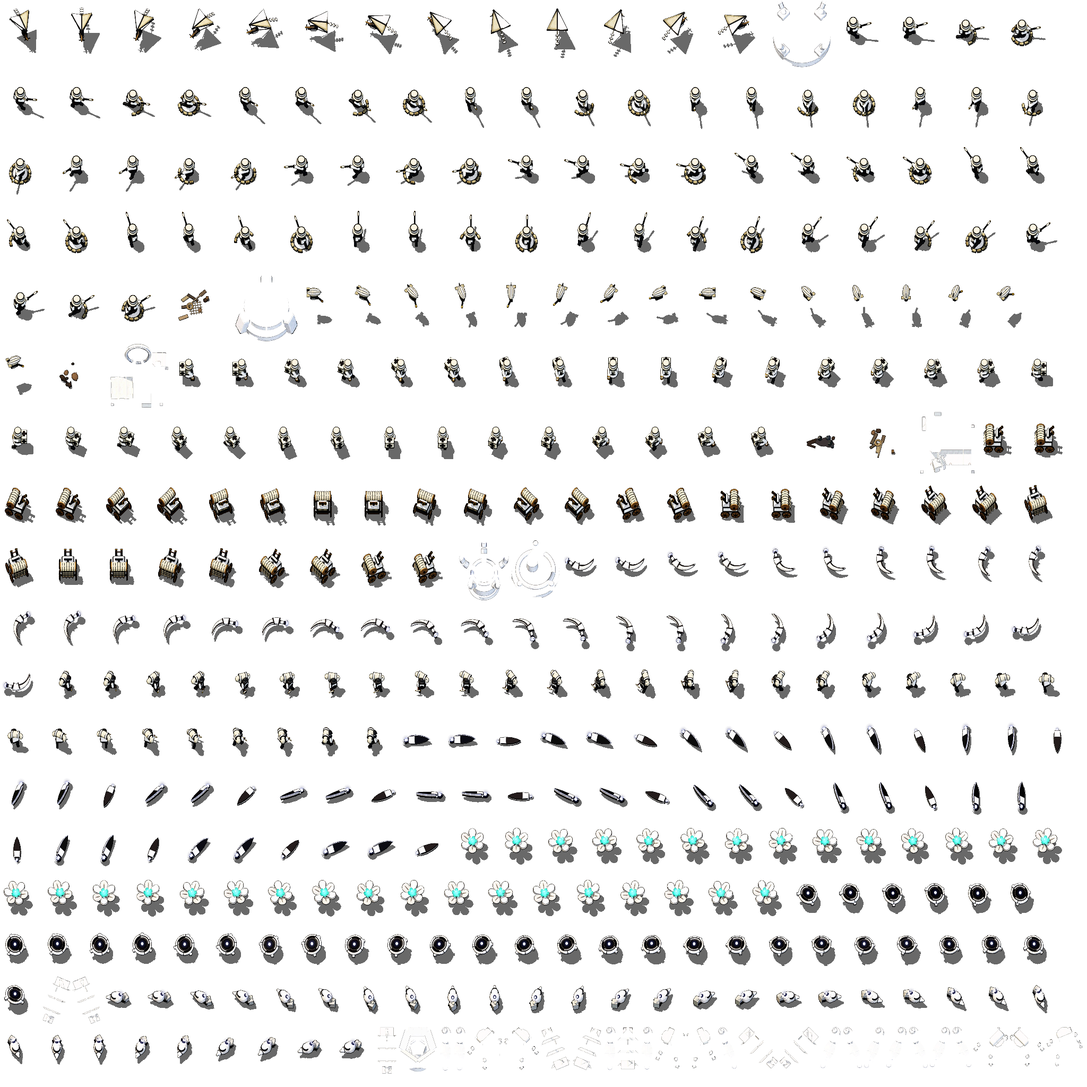
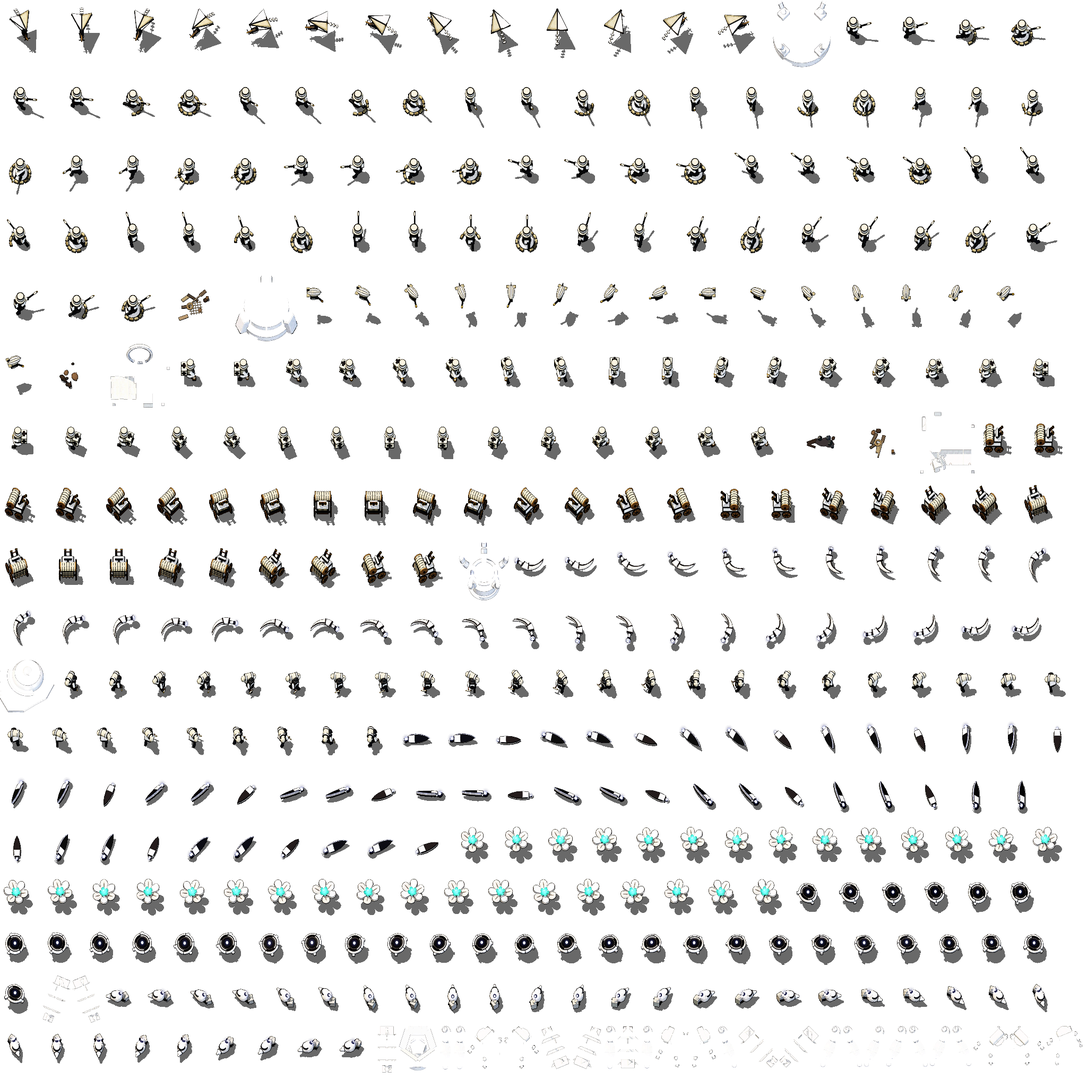
Shaft round 2: dry spoil and a black mouth with a lit near edge, a plainer Excavator, and the Siphon redrawn as a pearl whorl over the shaft (Opus, during the Fable limit)

diff --git a/tools/render3d/vael-buildings.js b/tools/render3d/vael-buildings.js
@@ -3,7 +3,7 @@
 // the Cradle (kiln), the Glasshouse (loom), the Anemone (ward), the Gyre (zenith) and the Darkwater (eclipse); the
 // Tidewell (conflux) stays in vael2.js and is the reference. Same conventions: game units (1 tile = 32), y up, +z
 // south (towards the camera); a building's anchor is its footprint's centre. Each building owns a roof from above:
-// a five-petal flower open to the sky, a bent straw over a basin, a half-open shell, a ribbed dome, a star of
+// a five-petal flower open to the sky, a conch lying over a shaft's mouth, a half-open shell, a ribbed dome, a star of
 // tentacles with lit tips, a widening spiral ribbon, a dark pool in a crown of arms; the Tidewell is a ring with
 // pylons. No ring of alternating glaze bands anywhere (the Tidewell's read as a lifebuoy): team glaze is one band,
 // a sleeve, a cap or a patch, each between ink seams.
@@ -13,6 +13,7 @@ import * as THREE from 'three';
 import { grp, add, rbox, cyl, sph, plate, limb, boxUV } from './models.js';
 import { torus, lathe } from './vael.js';
 import { deeplight } from './vael2.js';
+import { shaftPit, squareHole } from './ground.js';
 
 const cache = new Map();
 const memo = (key, make) => { if (!cache.has(key)) cache.set(key, make()); return cache.get(key); };
@@ -23,7 +24,6 @@ function fam(M) {
   const A = {
     darkGlass: new THREE.MeshPhysicalMaterial({ color: 0x16142c, metalness: 0.5, roughness: 0.08, clearcoat: 1, clearcoatRoughness: 0.05 }), // the Glasshouse's panes
     petalGlass: new THREE.MeshPhysicalMaterial({ color: 0x1c1840, emissive: 0x0e0c22, emissiveIntensity: 0.5, metalness: 0.35, roughness: 0.18, clearcoat: 1, clearcoatRoughness: 0.08, sheen: 0.4, sheenColor: 0x8c80d8 }), // the Sunpetal's faces: deep violet glass with a light sweep, never flat black
-    brine: new THREE.MeshStandardMaterial({ color: 0x26403e, emissive: 0x0a1a18, emissiveIntensity: 0.5, metalness: 0.25, roughness: 0.45 }), // the Siphon's seep: murky grey-teal
     violetWater: new THREE.MeshStandardMaterial({ color: 0x3a2e74, emissive: 0x241a58, emissiveIntensity: 0.55, metalness: 0.35, roughness: 0.3 }), // the Cradle's basin: deep violet, never black
     bud: new THREE.MeshPhysicalMaterial({ color: 0x6a5aa8, emissive: 0x2c2060, emissiveIntensity: 0.5, metalness: 0.1, roughness: 0.35, clearcoat: 0.8, sheen: 0.8, sheenColor: 0xe8e0ff }), // the Cradle's bud: violet under a pearl sheen
     mouth: new THREE.MeshStandardMaterial({ color: 0x1a1830, emissive: 0x201c48, emissiveIntensity: 0.5, metalness: 0.4, roughness: 0.3 }), // the Anemone's mouth: dark violet, lit from within
@@ -147,35 +147,53 @@ export function sunpetal(M) {
   return g;
 }
 
-/** Siphon (economy, on a brine seep, 2x2): a thick pearl straw bent over a small round seep of murky grey-teal
- *  brine, no rings on it, in a wide team collar: the straw rises from the seep, ribbed where it bends, and leans
- *  east to a pearl mouth open to the sky; a team sleeve on its lower half and a team band round the basin, each
- *  between ink seams; the one deeplight where the straw drinks. From above: a small murky pool in a broad team
- *  collar with a thick pale tube bent across it; nothing else has a tube. */
+/** A three-lobed plate (`tri` outline) with a square hole through it (the Siphon's plinth over the shaft's mouth). */
+const holedTri = (r, k, depth, bevel, hole) => memo(`htri${r},${k},${depth},${bevel},${hole}`, () => {
+  const sh = new THREE.Shape(tri(r, k).map(([x, z]) => new THREE.Vector2(x, -z))); sh.holes.push(squareHole(...hole));
+  const geo = new THREE.ExtrudeGeometry(sh, { depth: Math.max(0.1, depth - bevel * 2), bevelEnabled: true, bevelThickness: bevel, bevelSize: bevel, bevelSegments: 3, curveSegments: 12 });
+  geo.rotateX(-Math.PI / 2); geo.translate(0, bevel, 0);
+  const uv = geo.attributes.uv; for (let i = 0; i < uv.count; i++) uv.setXY(i, uv.getX(i) / 16, uv.getY(i) / 16); return geo;
+});
+/** A band round a three-lobed outline: `w` thick inward from radius r, `h` tall, its foot at y 0. */
+const triBand = (r, k, w, h) => memo(`tband${r},${k},${w},${h}`, () => {
+  const sh = new THREE.Shape(tri(r, k).map(([x, z]) => new THREE.Vector2(x, -z))); sh.holes.push(new THREE.Path(tri(r - w, k).map(([x, z]) => new THREE.Vector2(x, -z)).reverse()));
+  const geo = new THREE.ExtrudeGeometry(sh, { depth: h, bevelEnabled: false, curveSegments: 12 }); geo.rotateX(-Math.PI / 2); return boxUV(geo);
+});
+/** Siphon (economy, on a mine shaft, 2x2): a great pearl whorl, a moon-shell, that has settled on the shaft and drinks
+ *  the last damp brine from the salt beds below. A low pearl dome on the family's three-lobed plinth, one dark groove
+ *  spiralling from its rim in to its apex (the shell's read from above), a team cap on the apex in an ink seam; to the
+ *  south-west its aperture, the lip lifted and flared in a thick pearl roll (a team band on its flare between ink seams)
+ *  over the shaft's square dark mouth, the ink core in the gap under it and the one deeplight where it drinks; a team
+ *  band round the plinth's foot. The mouth shows beside it, the shaft's own dark (ground.js `shaftPit`); no liquid, no green. Nothing
+ *  stands up or points out (round 1 of the shaft: the upright straw read as a gun turret to all four testers). */
 export function siphon(M) {
-  const g = grp(), A = fam(M);
-  plinth(g, M, 27, 0.25);
-  add(g, cyl(19, 22, 7, 40), M.ink, 0, 4.5, 0);                                                // the basin
-  skirt(g, M, 22.4, 4.4, 4, 40);                                                               // the team band round it
-  add(g, cyl(15, 15, 0.6, 40), A.brine, 0, 8, 0);                                              // the seep: murky brine, still
-  hoop(g, M, 17, 4, 8.4);                                                                      // the wide team collar round it
-  deeplight(g, M, 1.1, 0, 9, 5.5);                                                             // a small light where the straw drinks, south of it
-  // the straw: up from the seep, a ribbed bend, then leaning east to a pearl mouth
-  const s = grp(); s.position.set(-3, 7, 0); g.add(s);
-  add(s, cyl(4.4, 4.9, 14, 18), M.shell, 0, 7, 0);                                             // the lower straw, thick
-  add(s, cyl(5, 5.3, 7, 18), M.glaze, 0, 9, 0);                                                // its team sleeve
-  add(s, cyl(5.2, 5.5, 0.7, 18), M.inkSeam, 0, 12.9, 0); add(s, cyl(5.4, 5.7, 0.7, 18), M.inkSeam, 0, 5.1, 0);
-  for (let k = 0; k < 4; k++) add(s, torus(4.5, 0.8, Math.PI * 2, 20), M.shellDark, k * k * 0.6, 15 + k * 2.5, 0, Math.PI / 2, 0, -k * 0.17); // the ribbed bend, slight
-  const up = grp(); up.position.set(3.6, 23.4, 0); up.rotation.z = -0.7; s.add(up);             // the upper straw, leaning east
-  add(up, cyl(4.1, 4.4, 20, 18), M.shell, 0, 10, 0);
-  add(up, rbox(1.6, 18, 1, 0.3), M.shellLight, -3.7, 10, 2);                                    // a lit ridge along it
-  add(up, sph(4.8, 16, 12), M.ring, 0, 20.6, 0).scale.set(1, 0.85, 1);                         // the mouth: a plain rounded pearl head
-  add(up, sph(1.9, 10, 8), M.inkSeam, 0, 24.2, 0); const hx = s.position.x + up.position.x + Math.sin(0.7) * 25, hy = s.position.y + up.position.y + Math.cos(0.7) * 25; deeplight(g, M, 1.3, hx, hy, 0); // the one blue-violet light at the head
-  for (const a of [Math.PI / 2 + 0.75, Math.PI / 2 - 0.75, -Math.PI / 2]) {                    // three pearl stakes pin the basin, team-capped
-    const x = Math.cos(a) * 22, z = Math.sin(a) * 22;
-    add(g, sph(3.2, 12, 10), M.shellLight, x, 9, z).scale.set(1, 1.3, 1);
-    add(g, cyl(2.3, 2.3, 1.8, 12), M.glaze, x, 12.2, z); add(g, cyl(2.5, 2.5, 0.5, 12), M.inkSeam, x, 11.2, z);
-  }
+  const g = grp(), MX = -5, MZ = 9, MW = 15;                                                   // the shaft's mouth through the plinth
+  add(g, holedTri(27, 0.25, 4, 1.5, [MX, MZ, MW / 2 + 1.5]), M.shellDeep, 0, 0, 0);            // the plinth, open over the mouth, a shade darker than the family's so the pale whorl is the read
+  add(g, holedTri(24.3, 0.25, 3, 1.4, [MX, MZ, MW / 2 + 1.4]), M.shellDark, 0, 3.5, 0);
+  add(g, triBand(28.9, 0.25, 1.0, 2.0), M.glaze, 0, 1.0, 0);                                    // a team band round the plinth's foot, between ink seams
+  for (const y of [0.5, 3.0]) add(g, triBand(29.1, 0.25, 1.3, 0.5), M.inkSeam, 0, y, 0);
+  shaftPit(g, MX, 6.5, MZ, MW);                                                                // the shaft going down, dark
+  for (const [w, d, x, z] of [[MW + 3.4, 1.6, 0, MW / 2 + 0.8], [1.6, MW + 3.4, -MW / 2 - 0.8, 0], [1.6, MW + 3.4, MW / 2 + 0.8, 0]]) add(g, rbox(w, 1.3, d, 0.6), M.ring, MX + x, 6.9, MZ + z); // a pearl lip round it, the near edge lit
+  // the whorl: a low pearl moon-shell dome settled on the plinth, a spiral groove from its rim in to its apex
+  const C = [4, 6.5, -4], R = 15, H = 9.5, dome = (r) => H * Math.sqrt(Math.max(0, 1 - (r / R) ** 2));
+  add(g, new THREE.SphereGeometry(R, 40, 20, 0, Math.PI * 2, 0, Math.PI / 2), M.shell, ...C).scale.set(1, H / R, 1);
+  const TH = Math.asin(11.5 / R);                                                                // the body whorl's outer turn, team: a skirt round the dome's foot between ink seams
+  add(g, new THREE.SphereGeometry(R + 0.15, 40, 6, 0, Math.PI * 2, TH, Math.PI / 2 - TH), M.glaze, ...C).scale.set(1, H / R, 1);
+  add(g, torus(11.6, 0.5, Math.PI * 2, 48), M.inkSeam, C[0], C[1] + H * Math.cos(TH) + 0.1, C[2], Math.PI / 2, 0, 0);
+  add(g, torus(R + 0.3, 0.55, Math.PI * 2, 48), M.inkSeam, C[0], C[1] + 0.4, C[2], Math.PI / 2, 0, 0);
+  const spiral = (r0, turns, a0, dr = 0) => { const pts = []; for (let i = 0; i <= 96; i++) { const t = i / 96, a = a0 + t * turns * Math.PI * 2, r = r0 * Math.exp(-2.1 * t); pts.push(new THREE.Vector3(C[0] + Math.cos(a) * r, C[1] + dome(r) + dr, C[2] + Math.sin(a) * r)); } return new THREE.CatmullRomCurve3(pts); };
+  add(g, new THREE.TubeGeometry(spiral(10.6, 1.9, 2.4, 0.15), 160, 0.75, 6), M.shellDeep, 0, 0, 0);   // the suture: one groove spiralling in, the shell's read
+  add(g, new THREE.TubeGeometry(spiral(9.2, 1.9, 2.4, 0.35), 160, 0.6, 6), M.shellLight, 0, 0, 0);  // the whorl's lit shoulder beside it
+  { const ar = 10.6 * Math.exp(-2.1), ax = C[0] + Math.cos(2.4 + 1.9 * Math.PI * 2) * ar * 0.5, az = C[2] + Math.sin(2.4 + 1.9 * Math.PI * 2) * ar * 0.5;   // the apex: a team cap in an ink seam
+    add(g, new THREE.SphereGeometry(4.6, 20, 10, 0, Math.PI * 2, 0, Math.PI / 2), M.glaze, ax, C[1] + H - 1.1, az).scale.set(1, 0.55, 1);
+    add(g, torus(4.65, 0.45, Math.PI * 2, 32), M.inkSeam, ax, C[1] + H - 1.1, az, Math.PI / 2, 0, 0); }
+  // the aperture, south-west over the mouth: the shell's lip lifted and flared, the ink core under it, a team band on it
+  const LA = 2.36, lip = grp(); lip.position.set(C[0], C[1] + 1.2, C[2]); lip.rotation.y = -(LA - 1.1); g.add(lip);  // (the arc runs from LA - 1.1 to LA + 1.1)
+  add(lip, torus(R + 0.6, 2.2, 2.2, 40), M.ring, 0, 0, 0, Math.PI / 2, 0, 0).scale.set(1, 1, 0.8);            // the lip, a thick pearl roll
+  add(lip, torus(R + 3.1, 1.2, 2.2, 40), M.glaze, 0, 0.3, 0, Math.PI / 2, 0, 0);                            // its flare, team
+  for (const r of [R + 1.7, R + 4.5]) add(lip, torus(r, 0.42, 2.2, 40), M.inkSeam, 0, 0.5, 0, Math.PI / 2, 0, 0);
+  add(lip, new THREE.CylinderGeometry(R - 0.5, R - 0.5, 1.6, 40, 1, true, Math.PI / 2 - 2.2, 2.2), Object.assign(M.inkMatte ??= M.inkSeam.clone(), {}), 0, -0.4, 0); // the ink core in the gap beneath it
+  deeplight(g, M, 1.3, C[0] + Math.cos(LA) * (R + 6), C[1] - 0.5, C[2] + Math.sin(LA) * (R + 6));   // the one light, where it drinks, over the dark
   return g;
 }
 

diff --git a/tools/render3d/ground.js b/tools/render3d/ground.js
@@ -44,10 +44,11 @@ const SH = {
   mouth: new THREE.MeshBasicMaterial({ color: 0x000000 }),                                     // the dark going down: no sheen, no light, the darkest thing on screen
   deep: std({ color: 0x0c0b0a, roughness: 1, metalness: 0 }),                                  // the far wall, deeper
   rock: std({ color: 0x1e1b18, roughness: 1, metalness: 0, flatShading: true }),               // the rock under the seabed, in shade
-  lining: std({ color: 0x3a3028, roughness: 0.95, metalness: 0 }),                             // the shaft's timber lining at its top, in shade
+  lining: std({ color: 0x2c2620, roughness: 0.95, metalness: 0 }),                             // the shaft's timber lining at its top, in shade
   ladder: std({ color: 0x5a4c3c, roughness: 0.9, metalness: 0 }),
-  beam: std({ color: 0x6e6a62, roughness: 0.88, metalness: 0 }),                               // the collar's timbers: old, weathered grey-brown (the Harbour's own timber read orange)
-  spoil: std({ color: 0x302f2c, roughness: 0.95, metalness: 0, flatShading: true }),           // dug earth and broken rock round the mouth, a step over the seabed
+  beam: std({ color: 0x847d71, roughness: 0.88, metalness: 0 }),                               // the collar's timbers: old, weathered grey-brown (the Harbour's own timber read orange)
+  spoil: std({ color: 0x3e3b36, roughness: 1, metalness: 0 }),                                 // dry dug earth round the mouth, the ground's value or a touch over (round 1's darker blot read as a puddle of tar)
+  rim: std({ color: 0xa69c8a, roughness: 0.85, metalness: 0 }),                               // the near edge's worn lip, lit: where the mouth begins
 };
 
 /** A salt field (`shard_0..3`), readable from full to nearly mined out by its shape, not only its size:
@@ -92,6 +93,14 @@ export function saltField(stage, M = G) {
   return g;
 }
 
+/** The shaft below the ground at a mouth `w` across centred at (x, y, z): its far wall, as deep as the camera sees
+ *  through the mouth, a thin lining band, rock in shade, then black. Shared by the collar and the Siphon's mouth. */
+export function shaftPit(g, x, y, z, w) {
+  const D = w * Math.tan(55 * Math.PI / 180), zN = z - w / 2;
+  const bands = [[0, 1.6, SH.lining], [1.6, 4, SH.rock], [4, 8, SH.deep], [8, D + 2, SH.mouth]];      // the far wall, top down: a thin lining, rock in shade, darker, black
+  for (const [t, u, mat] of bands) add(g, rbox(w + 1, u - t, 1, 0.05), mat, x, y - (t + u) / 2, zN - 0.5);
+  for (const sx of [-1, 1]) add(g, rbox(1, D, 1, 0.05), SH.mouth, x + sx * (w / 2 + 0.5), y - D / 2, zN);   // (the side walls' far corners, black)
+}
 /** The mine shaft's collar and mouth, square, centred at (x, y, z) on the ground at y: the shaft itself, its far wall
  *  going down below the ground as deep as the camera sees through the mouth (1.43 times its width at 55 degrees), lined
  *  with timber at the top and falling to black, a ladder down it; round it two courses of squared timbers laid
@@ -99,18 +108,17 @@ export function saltField(stage, M = G) {
  *  is built: the camera sees nothing else of the shaft. `M`: makeMats (iron; nothing team). Shared by the free shaft
  *  (`mineShaft`) and the Excavator over it. */
 export function shaftCollar(g, M, x = 0, y = 0, z = 0, w = 20) {
-  if (!SH.beam.map) for (const m of [SH.beam, SH.ladder, SH.lining]) { m.map = M.timber.map; m.needsUpdate = true; }  // (the Harbour's timber grain)
-  const b = 5, h = 3.4, o = w / 2 + b / 2, L = w + b * 2 + 5, D = w * Math.tan(55 * Math.PI / 180), zN = z - w / 2;
-  const bands = [[0, 3.2, SH.lining], [3.2, 6.5, SH.rock], [6.5, 11, SH.deep], [11, D + 2, SH.mouth]];   // the far wall, top down: lining, rock in shade, darker, black
-  for (const [t, u, mat] of bands) add(g, rbox(w + 1, u - t, 1, 0.05), mat, x, y - (t + u) / 2, zN - 0.5);
-  for (const sx of [-1, 1]) add(g, rbox(1, D, 1, 0.05), SH.mouth, x + sx * (w / 2 + 0.5), y - D / 2, zN);   // (the side walls' far corners, black)
-  for (const sx of [-1, 1]) add(g, rbox(1, 20, 1, 0.3), SH.ladder, x + sx * 2.6, y - 4, zN + 1.1);         // a ladder down the far wall
-  for (let k = 0; k < 6; k++) add(g, rbox(5.2, 0.7, 0.7, 0.2), SH.ladder, x, y + 4.6 - k * 3, zN + 1.2);
+  if (!SH.beam.map) for (const m of [SH.beam, SH.ladder, SH.lining, SH.rim]) { m.map = M.timber.map; m.needsUpdate = true; }  // (the Harbour's timber grain)
+  const b = 5, h = 3.4, o = w / 2 + b / 2, L = w + b * 2 + 5, zN = z - w / 2;
+  shaftPit(g, x, y, z, w);
+  for (const sx of [-1, 1]) add(g, rbox(0.6, 20, 0.6, 0.2), SH.ladder, x + sx * 2.1, y - 4, zN + 1.1);     // a slim ladder down the far wall
+  for (let k = 0; k < 6; k++) add(g, rbox(4.4, 0.45, 0.45, 0.1), SH.ladder, x, y + 4.6 - k * 3, zN + 1.2);
   for (const [c, rot] of [[0, 0], [1, Math.PI / 2]]) for (const s of [-1, 1]) {
     const yy = y + h / 2 + c * h;                                                            // two courses: x-beams below, z-beams above
     const px = rot ? s * o : (s < 0 ? -0.6 : 0.5), pz = rot ? (s < 0 ? 0.4 : -0.5) : s * o; // (each beam a little off: hewn, not machined)
     add(g, rbox(L - (c ? 0 : 1.6), h, b, 0.8), SH.beam, x + px, yy, z + pz, 0, rot + s * 0.02 * (c + 1), 0);
   }
+  add(g, rbox(w + 0.6, 0.7, 1.4, 0.3), SH.rim, x, y + h + 0.2, z + w / 2 + 0.8);                 // the near edge's worn lip, lit (the depth's first cue)
   for (const [sx, sz] of [[-1, -1], [1, 1]]) add(g, rbox(1.8, 1.2, 1.8, 0.2), M.ironDark, x + sx * o, y + 2 * h + 0.3, z + sz * o); // two iron dogs at the corners
 }
 
@@ -120,9 +128,9 @@ export function shaftCollar(g, M, x = 0, y = 0, z = 0, w = 20) {
  *  frames are the same: it no longer bubbles. `M`: makeMats (timber, iron). */
 export function mineShaft(f, M) {
   const g = grp(); s = 51;
-  add(g, patch(wob(28, 1.0, 1.3), 0.86, 1.2, 1.2, [0, -1, 13.5]), SH.spoil, 0, 0, 0);       // the spoil: trodden, its edge uneven, open over the mouth
-  add(g, patch(wob(12, 1.4, 2.6), 0.6, 1.2, 1.2), SH.spoil, 14, 0.6, 11);                    // a low heap of it to the south-east
-  shaftCollar(g, M, 0, 1.2, -1, 24);
+  add(g, patch(wob(28, 1.0, 1.3), 0.86, 0.7, 0.5, [0, -1, 13.5]), SH.spoil, 0, 0, 0);       // the spoil: dry dug earth, low and shallow, its edge uneven, open over the mouth
+  add(g, patch(wob(12, 1.4, 2.6), 0.6, 0.9, 0.6), SH.spoil, 14, 0.4, 11);                    // a low heap of it to the south-east
+  shaftCollar(g, M, 0, 0.7, -1, 24);
   for (const [x, z, sz] of [[-21, 10, 3.6], [19, -14, 2.8]]) add(g, new THREE.DodecahedronGeometry(sz), G.slate, x, sz * 0.4, z, rnd(), rnd(), rnd()).scale.y = 0.6; // two big stones
   return g;
 }

diff --git a/tools/render3d/harbour-buildings.js b/tools/render3d/harbour-buildings.js
@@ -186,8 +186,8 @@ const profile = (pts, t, bevel = 0.3) => memo(`pf${JSON.stringify(pts)},${t},${b
 /** Excavator (extractor, 2x2): a small mine head over the shaft (ground.js `shaftCollar`, the free shaft's own collar
  *  and dark mouth): a timber headframe, four legs leaning in over the mouth, two back-stays down to the west, and on
  *  its top the winch wheel (the sheave: a team-painted rim between ink rings on iron spokes, facing the camera); the
- *  pale rope runs over the wheel and straight down into the dark, and back down to a rope drum by a small tarred winch
- *  house under a team tarp. A tub on short rails south of the mouth, its sides team, a load of rock salt in it. From
+ *  pale rope runs over the wheel and straight down into the dark, and back down into a small tarred winch house (its
+ *  drum inside) under a team lean-to. A tub on short rails south of the mouth, its sides team, a load of rock salt in it. From
  *  above: a wheel on a short frame over a dark square. No horse-head, beam, pool or bucket (round 4: a hanging load
  *  read as a well-sweep). */
 export function excavator(M) {
@@ -222,20 +222,17 @@ export function excavator(M) {
   add(wheel, torus(R, 1.6, 44), M.paint, 0, 0, 0);                                                             // the rim, team
   add(wheel, torus(R - 1.7, 0.45, 44), M.inkLine, 0, 0, 0);                                                    // its ink rings
   for (const dz of [-1.4, 1.4]) add(wheel, torus(R + 0.4, 0.45, 44), M.inkLine, 0, 0, dz);
-  // the rope: from the drum up to the wheel's top, over it, and straight down into the mouth
-  const D = [-19, Y + 6.5, -8], DR = 3.6;                                                                     // the drum's centre and radius
+  // the rope: from the winch house up to the wheel's top, over it, and straight down into the mouth
+  const EX = -15, EZ = 14, D = [-12, 12.5, EZ - 8], DR = 0;                                                    // the winch house; where the rope enters it (its north wall)
   const dx = D[0] - W[0], dy = D[1] - W[1], d = Math.hypot(dx, dy), al = Math.atan2(dy, dx), be = Math.acos(R / d);
   const ta = al - be, T = [W[0] + Math.cos(ta) * (R + 1.2), W[1] + Math.sin(ta) * (R + 1.2)];                  // where the rope leaves the wheel (the upper tangent)
   add(wheel, torus(R + 1.2, 0.6, 30, (ta % (2 * Math.PI) + 2 * Math.PI) % (2 * Math.PI)), M.rope, 0, 0, 0);       // over the wheel's top
-  pole(g, [T[0], T[1], W[2]], [D[0] + 0.3, D[1] + DR + 0.4, D[2]], 0.5, M.rope, 6).userData.noShadow = true;
+  pole(g, [T[0], T[1], W[2]], [D[0], D[1] + DR, D[2]], 0.5, M.rope, 6).userData.noShadow = true;
+  add(g, rbox(2.6, 2.6, 1.2, 0.4), M.ironDark, D[0], D[1], D[2] + 0.2);                                         // the fairlead it runs in by
   pole(g, [W[0] + R + 1.2, W[1], W[2]], [W[0] + R + 1.2, Y - 1, W[2]], 0.6, M.rope, 6).userData.noShadow = true; // down into the dark
-  // the rope drum on its iron stands, rope wound on it
-  const wound = M.ropeWound ??= new THREE.MeshStandardMaterial({ color: 0x8a7a5c, bumpMap: M.rope.bumpMap, bumpScale: 1.2, roughness: 0.95, metalness: 0 }); // rope wound on a drum, in its own shade (a band below the free rope)
-  add(g, cyl(DR, DR, 7, 16), wound, D[0], D[1], D[2], Math.PI / 2, 0, 0);
-  for (const dz of [-4, 4]) { add(g, cyl(DR + 1.3, DR + 1.3, 0.9, 16), M.ironDark, D[0], D[1], D[2] + dz, Math.PI / 2, 0, 0); add(g, rbox(2.2, D[1] - Y, 2, 0.3), M.ironDark, D[0], Y + (D[1] - Y) / 2, D[2] + dz * 1.15); }
-  // the winch house, south-west (clear of the wheel's back, so the team rim stands on the quay): tarred, under a
-  // lean-to of weathered team canvas sagging between its rafters, worn hems
-  const EX = -15, EZ = 14, HX = 11, HZ = 9;
+  // the winch house, south-west (clear of the wheel's back, so the team rim stands on the quay; its drum inside):
+  // tarred, under a lean-to of weathered team canvas sagging between its rafters, worn hems
+  const HX = 12.5, HZ = 9.5;
   add(g, rbox(19, 10, 15, 0.8), M.tar, EX, 9, EZ);
   add(g, rbox(19.6, 1.4, 15.6, 0.3), M.ironDark, EX, 4.7, EZ);
   { const e = [EZ + HZ, 14.6], r = [EZ - HZ, 19.6];                                                             // the eave (south) and the high edge (north)
@@ -253,9 +250,8 @@ export function excavator(M) {
   for (const [sx, sz] of [[-1, -1], [1, -1], [-1, 1], [1, 1]]) add(g, cyl(1.5, 1.5, 0.8, 10), M.ironDark, C[0] + sx * 3.3, C[1], C[2] + sz * 2.8, 0, 0, Math.PI / 2);
   add(g, rbox(9, 6, 10, 0.6), M.paintCanvas, C[0], C[1] + 3.6, C[2]);                                           // the tub, team
   for (const y of [0.5, 6.7]) add(g, rbox(9.5, 0.6, 10.5, 0.2), M.inkLine, C[0], C[1] + y, C[2]);              // its hems
-  const salt = M.rockSalt ??= new THREE.MeshStandardMaterial({ color: 0x6e6a63, emissive: 0x1a1814, roughness: 0.9, metalness: 0, flatShading: true });
-  for (const [x, z, r] of [[-1.8, -2, 2.6], [1.8, -1.2, 2.3], [0, 2, 2.5], [-2, 2.6, 1.8], [2.4, 2.8, 1.7]]) add(g, new THREE.DodecahedronGeometry(r), salt, C[0] + x, C[1] + 7.3, C[2] + z, x, z, r);
-  crates(g, M, 20, -18, 1);
+  const salt = M.rockSalt ??= new THREE.MeshStandardMaterial({ color: 0x6e6a63, roughness: 0.9, metalness: 0, flatShading: true }); // grey rock salt, no glow
+  for (const [x, z, r] of [[-1.8, -2, 2.2], [1.8, -1.2, 2], [0, 2, 2.1], [-2, 2.6, 1.6], [2.4, 2.8, 1.5]]) add(g, new THREE.DodecahedronGeometry(r), salt, C[0] + x, C[1] + 5.6, C[2] + z, x, z, r); // the load, low in the tub
   return g;
 }
 

diff --git a/tools/render3d/STYLE.md b/tools/render3d/STYLE.md
@@ -337,7 +337,7 @@ mouths and pools carry a sheen or a light. Helpers in the file: `plinth`, `skirt
 between seams), `hoop` (a flat glaze ring between seams), `upright` (an outline stood up in a group), `tentacle`
 (capsule segments along a curve, some sleeved), `ribbon` (a flat band along a helix, the Gyre's rail). The family's
 materials: `darkGlass` (the Glasshouse's panes), `petalGlass` (deep violet glass with a sheen, the Sunpetal's
-faces), `brine` (murky grey-teal, the damp brine the Siphon draws), `mouth` (dark violet lit from within, the Anemone's),
+faces), `mouth` (dark violet lit from within, the Anemone's),
 `violetWater` (the Cradle's basin, deep violet, never black), `bud` (violet under a pearl sheen, the Cradle's bud).
 
 Round 1's blind test swapped the Sunpetal and the Anemone (pointed petals read as the aggressive one, seven straight
@@ -352,7 +352,7 @@ the Sunpetal's pentagonal hub ring.
 | kind (key)            | signature shape, from above                                                                 | team glaze                                                                 | the light(s)                             |
 |-----------------------|---------------------------------------------------------------------------------------------|----------------------------------------------------------------------------|------------------------------------------|
 | Sunpetal (`spire`, 2x2) | a flower: five broad rounded pearl petals (27 long, 21 wide, round tips) spaced evenly round an ink core, each splayed 1.0 rad past vertical so its inner face shows from above: violet glass (`petalGlass`) in a pearl rim; one petal north | a bar of even width across each petal's face just above the hub; a pentagonal hub ring (a five-sided torus, a corner to each petal) on the core's top; a skirt round the ink core | one, on the pistil at the heart (r 1.9) |
-| Siphon (`siphon`, 2x2, on a mine shaft, drawing the last damp brine from the salt beds) | a small murky pool (`brine`, r 15, no rings) in a wide team collar, a thick pearl straw (r 4.4-4.9) bent across it: up from the seep, ribbed at the bend (slightly), leaning east to a plain rounded pearl head with one light: no funnel, no pinwheel; three pearl stakes | the collar round the seep (a hoop, 4 wide), a sleeve on the straw's lower half, a band round the basin, caps on the stakes | one at the head (r 1.3), a small one where the straw drinks (r 1.1) |
+| Siphon (`siphon`, 2x2, on a mine shaft, drawing the last damp brine from the salt beds; the shaft's round 2) | a great pearl whorl, a moon-shell settled on the shaft: a low pearl dome (r 15, 9.5 high) on a darker three-lobed plinth (`shellDeep`, `shellDark`: the pale shell is the read) open over the shaft's square dark mouth (15 across, south-west, ground.js `shaftPit`, a pearl lip round it); one dark groove (`shellDeep`) spiralling 2.3 turns from the rim in to the apex beside a lit shoulder (`shellLight`); to the south-west the aperture, the lip lifted in a thick pearl roll over the mouth, the matte ink core in the gap beneath it. Nothing upright, nothing pointing out, no liquid (round 1: the upright straw read as the Lookout's gun or StarCraft's missile turret to all four testers) | a cap on the apex in an ink seam, a band on the lip's flare between seams, a band round the plinth's foot | one, over the dark mouth where it drinks (r 1.3) |
 | Cradle (`kiln`, 3x3)  | a scallop with something growing in it: a fan-shaped basin of deep violet water (an arc of 237 degrees, r 30, closed to the north by a flat hinge bar 34 wide), nine pearl ribs splaying from the hinge across the floor to a pearl rim wall with ridges and a knob on each; one big bud standing in the water (r 8, 21 tall: violet under a pearl sheen, a pearl crown, a faint glow) | the hinge bar, a hoop along the rim wall's crest, a band round the wall's foot, caps on the straight edges, the bud's collar | one, at the bud's foot (r 1.5) |
 | Glasshouse (`loom`, 2x2) | a dome of dark glass in pearl ribs (eight meridians and one hoop) on an ink drum, a pearl crown; three buttresses | a band round the dome's foot, a skirt round the drum, the three buttresses (glaze blocks under pearl caps) | one, on the crown (r 1.2) |
 | Anemone (`ward`, 2x2) | an anemone that stings: five soft pearl tentacles (`tentacle`: six capsule segments, 2.6 tapering to 1.3) curling out, up and in from a pearl oral disc on a fat ink column, low (tips at y 42, so the shadows stay short), each ending in a blue-violet tip (`deeplight` with halos, no white heart); the mouth dark violet (`mouth`) with a faint pearl ring | a tall collar round the column, a hoop on the foot, the disc's rim, a sleeve on each tentacle's second and third segments | five violet tips (r 2) |
@@ -361,11 +361,12 @@ the Sunpetal's pentagonal hub ring.
 
 Shapes against each other: the Sunpetal's petals are broad, rounded and five, the Anemone's tentacles thin, curling
 and violet-tipped; the Glasshouse is a convex ribbed dome, the Darkwater a flat ink pool with thin arms leaning out, the Tidewell a
-broad pearl ring on a tall drum with pylons leaning out; the Siphon is the one with a tube and a small murky pool;
-the Cradle the one violet fan with a bud; the Gyre the one coil. No turning head on the Anemone: `bldg_ward` is one sprite, as before.
+broad pearl ring on a tall drum with pylons leaning out; the Siphon is the one low solid shell, a pale dome with a
+spiral groove beside a square black mouth; the Cradle the one violet fan with a bud; the Gyre the one open coil (a
+ribbon winding up a cone, not a solid dome). No turning head on the Anemone: `bldg_ward` is one sprite, as before.
 
 Cells (`main.js`, unchanged): spire 82, siphon 50, kiln 42, loom 42, ward 50, zenith 72, eclipse 58. Team shares
-(round 3): Tidewell 0.226, Sunpetal 0.193, Siphon 0.235, Cradle 0.180, Glasshouse 0.179, Anemone 0.205, Gyre 0.234, Darkwater 0.173. The pack: `node tools/art/review.mjs <dir> --family=vbld`.
+(round 3; the Siphon in the shaft's round 2): Tidewell 0.226, Sunpetal 0.193, Siphon 0.194, Cradle 0.180, Glasshouse 0.179, Anemone 0.205, Gyre 0.234, Darkwater 0.173. The pack: `node tools/art/review.mjs <dir> --family=vbld`.
 
 ## Harbour buildings (`harbour-buildings.js`)
 
@@ -400,7 +401,7 @@ roof over a drill yard with a flag, the Slipway a large sharp-bowed hull on a sl
 | kind (key)              | signature from above                                                                                              | the team canvas                                                                     |
 |-------------------------|-------------------------------------------------------------------------------------------------------------------|-------------------------------------------------------------------------------------|
 | Windmast (`depot`)      | a square tarred store (30 x 28) with a timber deck on top; out of it a tarred ship's mast (to 75, iron bands two over each sail) carrying three square sails one over another, narrowing upward (course 28-31 x 10.5, topsail 22-25 x 9.5, topgallant 16-19 x 8, heads at 35, 51.5, 67), hung on the mast's far side so the dark mast runs down their faces: each team canvas bellied away (`sailGeo`, a bent grid), leaning foot-south 0.12, framed all round in tar (the yard, tarred bolt-ropes down the leeches and along the foot) so it never shares the kites' wedge; the yards (r 1.2) reach 5.5 past the cloth each side with iron bands at their ends; braced 0.18; a small top over the course, a pennant. Nothing radial | the three sails, two canvas doors on the store's south face in ink frames, a lean-to over the casks south, the crate tarps, the pennant |
-| Excavator (`extractor`) | a small mine head over the shaft: the shaft's own collar and dark mouth (ground.js `shaftCollar`, 18 across, 8 east of the centre) through a flagstone quay open over it; a timber headframe, four legs (r 1.35) leaning in from round the mouth to two cap beams at 42, tied once round, two back-stays down to the west; on top **the winch wheel**, the signature: a sheave (r 11, its centre at 44, 8 west of the mouth's centre) facing south to the camera, six iron spokes, an iron hub with a brass cap, a team rim (tube 1.6) between ink rings, standing against the bare quay (nothing team behind it: round 1 of the shaft had the winch house's tarp there, gold on gold); the pale rope over its top and straight down into the black, and from its west side down to a rope drum on iron stands north-west (the wound rope `ropeWound`, a band below the free rope); a tarred winch house south-west under a lean-to of weathered team canvas (`paintWorn`, sagging in three bays, worn hems, two rope lashings); south of the mouth a tub on short rails with a load of grey rock salt (`rockSalt` 0x6e6a63, a faint warm emissive, under the field's salt). No beam, horse-head, pool, bucket or crane (a hanging load read as a well-sweep, round 4; a boom is the Workshop's) | the wheel's rim (never the only team), the winch house's lean-to, the tub's sides between ink hems, a crate tarp north-east, the mooring posts' tops |
+| Excavator (`extractor`) | a small mine head over the shaft: the shaft's own collar and dark mouth (ground.js `shaftCollar`, 18 across, 8 east of the centre) through a flagstone quay open over it; a timber headframe, four legs (r 1.35) leaning in from round the mouth to two cap beams at 42, tied once round, two back-stays down to the west; on top **the winch wheel**, the signature: a sheave (r 11, its centre at 44, 8 west of the mouth's centre) facing south to the camera, six iron spokes, an iron hub with a brass cap, a team rim (tube 1.6) between ink rings, standing against the bare quay (nothing team behind it: round 1 of the shaft had the winch house's tarp there, gold on gold); the pale rope over its top and straight down into the black, and from its west side down into a tarred winch house south-west (its drum inside, an iron fairlead on its north wall) under a lean-to of weathered team canvas (`paintWorn`, sagging in three bays, worn hems, two rope lashings); south of the mouth a tub on short rails, its load of grey rock salt low in it (`rockSalt` 0x6e6a63, no emissive). Round 1 of the shaft ("a busy dark square at 1x") dropped the rope drum and the crate tarp, so the wheel is the one read. No beam, horse-head, pool, bucket or crane (a hanging load read as a well-sweep, round 4; a boom is the Workshop's) | the wheel's rim (never the only team), the winch house's lean-to, the tub's sides between ink hems, the mooring posts' tops |
 | Crew Hall (`barracks`)  | soldiers live and drill here: a long tarred shed along x (80 x 26), plain walls, under one plain gable: the near (south) slope weathered team canvas (`paintWorn`) with one gentle sag, no battens or bays (step 2: the bays read as boat slips), worn ink hems all round, the far slope dark tar, a tarred ridge beam (2.6) raised over it, a stove pipe; two doors and small shuttered windows under a shallow shade along the south wall (`canvasDark`, on posts with a rail); in front the drill yard, a square of packed sand (`sandbag`, 46 x 22) in a timber kerb with eight straw cross-post dummies set a little unevenly (a post, a crossbar, a straw body and a sack head in straw-tan, 0x9c8658, no cast shadow: step 2's ranks of round pale heads read as a parked squad of infantry), the flagstaff (44) at its north-east corner; three round pale targets on posts east, a rifle rack, a bell | the near roof slope (84 x 17), the flag, a crate tarp: a long two-tone bar over a sand square with a flag |
 | Workshop (`forge`)      | round 3's smithy (34 x 28) under a dark corrugated iron roof on timber posts, one slope down to the south, a louvred vent along the roof (three pale timber louvres, a pale timber gable cap with an iron strap: a pale ridge in grey), a square iron stack at its north-west corner; the forge out in the yard south of it: a slate hearth glowing orange-red (`hearth`, r 3.4; gold must not meet the forge glow) under a short flue, the anvil, five orange sparks over it, a quench tub; a short pale timber derrick west of the smithy (mast 50, boom r 2 with iron bands up to the south-east), the bale hung over the quay, never past the footprint (round 4's long jib read as a pump jack); no bench, bars or chain coil (clutter at 1x) | an awning along the open south side (39 x 13) on posts under the eave, the bale (team canvas, roped, between ink hems), a wrap round the stack, a crate tarp |
 | Slipway (`factory`)     | a boat is built here: a stone slip (34 wide) inclined 10 down to the south off a stone head, running into a strip of dark water (`brine`) at the quay's edge with a pale line of foam, two pale timber ways (`timberPale`) on dark sleepers; on them, on keel blocks and shores, the largest shape: an open tarred hull (`hullGeo`: 56 long, half-beam 12, deep 8, a transom stern, a sharp bow pointing down the slip, the sheer rising forward), its pale gunwale outlining the boat, six pale ribs across its dark inside (`tarIn2`), a keel, a pale stem post, a team strake along each side under an ink seam; a capstan on the head with its line to the stern. East, the mould loft: a low open lean-to (28 x 46), one slope falling away from the slip (20 to 11) on posts, a tarred back wall and a dark high plate, planks stacked beneath. No sheer legs and no peaked roof (step 2: a steeple and a hall; and the Loft is a deck beside a peaked tent) | the lean-to's slope (weathered canvas sagging in three bays, worn ink hems), the strakes, crate tarps |
@@ -429,7 +430,7 @@ rounds): rings and dodgers are `tube` (open-ended, two-sided materials). A flag 
 (outline x along the fly, z up), so it faces the camera; the Lighthouse's pennant (rotation.z) stands edge-on.
 
 Lights: none but the Workshop's hearth and sparks. Materials of the family (`bldgMats`): `brine` 0x3a4a50 rough 0.12
-metal 0.35 (the Slipway's water), `saltPan` 0xd8d4c6 flat (the Slipway's foam), `rockSalt` and `ropeWound` (the
+metal 0.35 (the Slipway's water), `saltPan` 0xd8d4c6 flat (the Slipway's foam), `rockSalt` (the
 Excavator's, made in its builder), `tarIn` (tar's map on the back faces, a hull's inside), `kiteCloth` 0xc6bc9e,
 `canvas2` / `canvasDark2` / `paintCanvas2` / `inkLine2` (two-sided, for sails, vanes and dodgers seen from both
 faces), `spark` (0xffb890, emissive 0xff6a28 x 3.2, not tone-mapped), `hearth` (0x3a0500, emissive 0xff2a08 x 1.5: orange-red, as
@@ -445,7 +446,7 @@ depot 32 -> 42 (the Windmast's mast), turret 14 -> 36 (the Lookout's nest and pe
 (`TURRET_HEAD_H`: a north-facing muzzle stands about 74 above the anchor). The anchor stays the footprint's centre, so
 the head still seats on the base. Every Harbour building and all 16 head frames have their top row clear (11 px or more
 of room). Team shares at
-facing 0 (step 2; the Excavator in the mine shaft round): Windmast 0.240, Excavator 0.201, Crew Hall 0.256, Workshop 0.171, Slipway 0.194, Lookout 0.194 (its gun
+facing 0 (step 2; the Excavator in the mine shaft round): Windmast 0.240, Excavator 0.183, Crew Hall 0.256, Workshop 0.171, Slipway 0.194, Lookout 0.194 (its gun
 0.182), Loft 0.174. The pack: `node tools/art/review.mjs <dir> --family=hbld` (the phone sheet is a scene of each
 building once, in seat 0 or 6, with a Windmast, a Lookout and an Excavator on a shaft again in seat 1, a salt field, the
 Tidewell, Pickets and Riggers for scale; the blind images are 200 px wide; the battle stand-in is a Harbour base of
@@ -508,18 +509,21 @@ on its lit face and pale grey (0xb9b4aa) on its shaded one; never teal.
 rock salt under the seabed, deeper than the surface crystals; a shaft is an old entrance going down to them (Stelian:
 "an entry to a mine, with less detail"; the brine spring before it had "too much detail and green"). A few big forms
 that read at a phone's 64 px: a square dark mouth (24 across) in a heavy collar of squared timbers laid log-cabin
-fashion, two courses, each course's ends past the other's (`SH.beam` 0x6e6a62 with the timber grain: old, weathered
-grey-brown, since the Harbour's `timber` finished orange on the ground), two iron dogs at its corners; a low apron of
-dug spoil round it (`SH.spoil` 0x302f2c, radius 28, an uneven edge, a low heap to the south-east, open over the mouth)
-and two big slate stones. The shaft is built as a real hole (`shaftCollar`): its far wall goes down below the ground
+fashion, two courses, each course's ends past the other's (`SH.beam` 0x847d71 with the timber grain: old, weathered
+grey-brown, a step over the ground so the shaft is found at 1x; the Harbour's `timber` finished orange on the ground),
+the near edge's worn lip lit (`SH.rim` 0xa69c8a, the depth's first cue), two iron dogs at its corners; a low, shallow
+apron of dry dug earth round it (`SH.spoil` 0x3e3b36, the ground's value or a touch over, radius 28, an uneven edge, a
+low heap to the south-east, open over the mouth: round 1's darker spoil, 0x302f2c, read as a puddle or tar to all four
+testers and the judge) and two big slate stones. The shaft is built as a real hole (`shaftCollar`): its far wall goes down below the ground
 as deep as the camera sees through the mouth (1.43 times its width at 55 degrees; only that wall, as nothing else of
-the shaft can be seen), a band of timber lining in shade (`SH.lining`) at the top, then rock in shade (`SH.rock`),
-darker (`SH.deep`), and black (`SH.mouth`, unlit), a ladder (`SH.ladder`) going down it from just over the collar: the
+the shaft can be seen; `shaftPit`), a thin band of timber lining in shade (`SH.lining`, 1.6: round 1's band twice as
+tall read as a sandbox's or a ladder frame's), then rock in shade (`SH.rock`), darker (`SH.deep`), and black
+(`SH.mouth`, unlit), so at 1x the mouth is black; a slim ladder (`SH.ladder`) going down it from just over the collar: the
 one thing darker than the ground, and a depth the eye reads as a hole to climb down. No liquid anywhere, no rope,
 windlass or bucket (a well), no green, no plume, no rings, no light, nothing team: it is neutral ground. The four frames
 are the same (it no longer bubbles); render.js draws a dry one at 0.6, and its mouth still reads darker than the ground.
 The Excavator stands on the same `shaftCollar`, so a shaft under it lines up; the Siphon covers it but for the spoil's
-edge. The tide pool (scenery) stays a dull grey-blue film, ~54 in grey, never ringed by white.
+edge and a collar's end, and opens its own mouth over it (`shaftPit`, the same far wall). The tide pool (scenery) stays a dull grey-blue film, ~54 in grey, never ringed by white.
 
 **The scenery** (`scenery2.js`, `SCENERY`; the names are the old props' so the client, the scatter and the tests stay
 as they are): on the reef (solid), `boulders_*` a small heap of clams and whelks lying down with rounded grey-brown
